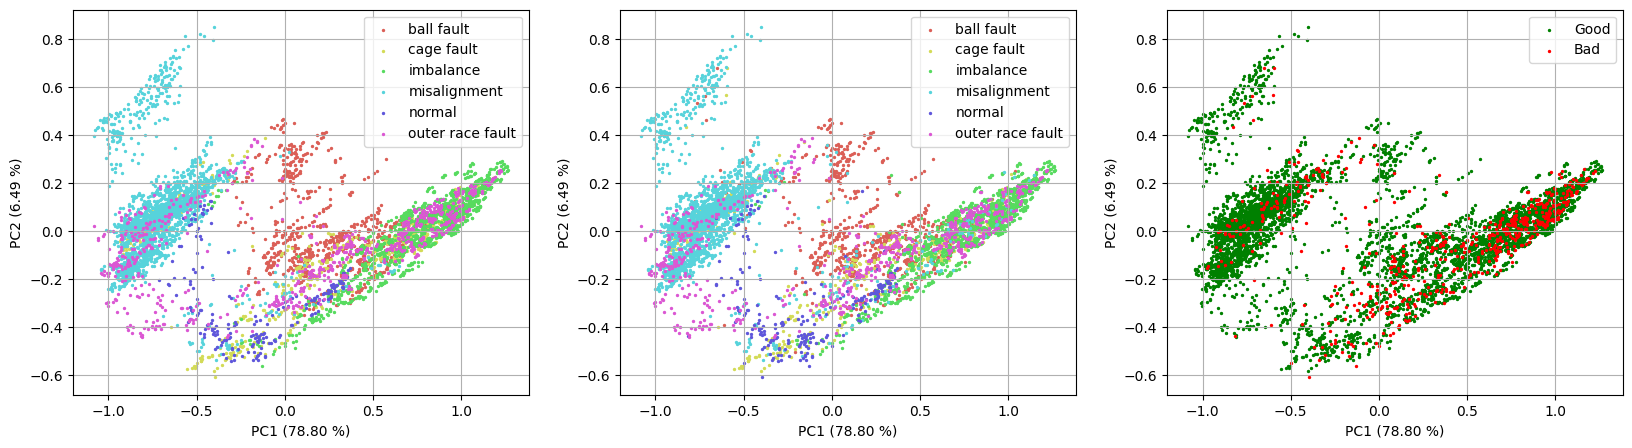
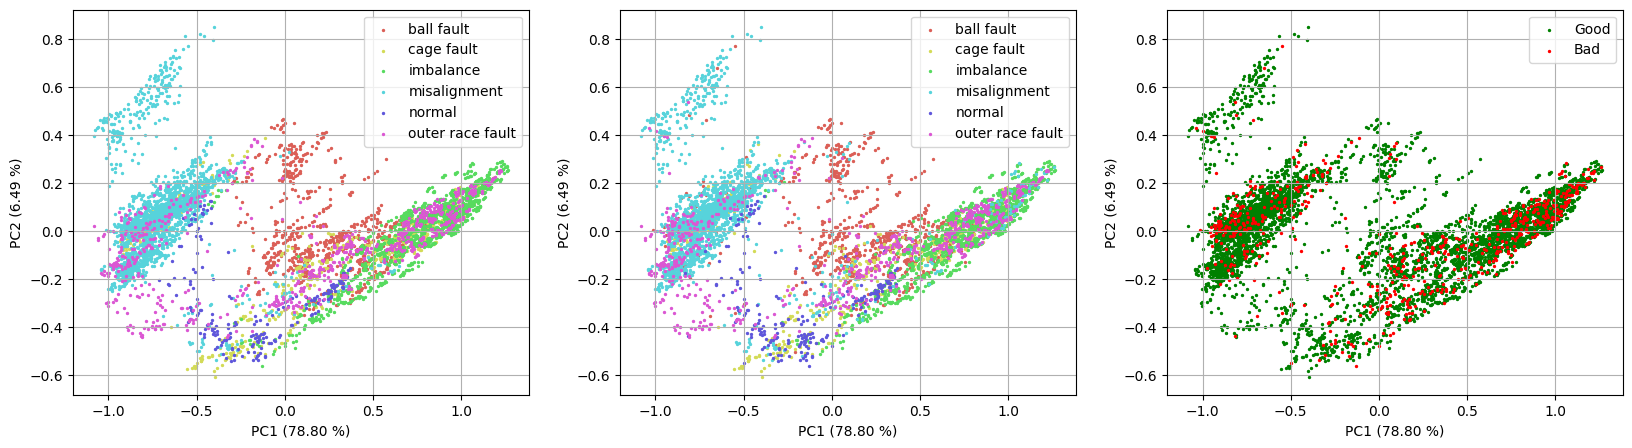
Increamental learing results with kNN

diff --git a/thesis/chapters/03-design.tex b/thesis/chapters/03-design.tex
@@ -257,10 +257,10 @@ The choice of features is very sensitive to experimental conditions. Tendencies 
 
 
 \section{K-nearest neighbor classifier}
-We utilize the k-nearest neighbor algorithm to check machinery diagnostics abilities with reduced feature sets. kNN classifier being a lazy learner means it can be adapted easily from offline to online context. Training labels establish nearest-neighbor decision boundaries for attribute values. Voronoi diagrams can display these regions and explain the model in that way. Batch learning in kNN serves here as a target performance whose attainment is desirable with online learning.
+We utilize the k-nearest neighbor algorithm to check machinery diagnostics abilities with reduced feature sets. kNN classifier being a lazy learner means it can be adapted easily from offline to online context. Training labels are min-max scaled and establish nearest-neighbor decision boundaries for attribute values. Voronoi diagrams can display these regions and explain the model in that way. Batch learning in kNN serves here as a target performance whose attainment is desirable with online learning.
 
 \subsection{Batch models}
-Three types of kNN model experiments run with hold-out validation. 
+Three types of kNN model experiments run with hold-out validation in batch setting. 
 First, the model learns all extracted features, so no feature selection occurs. Then, the brute-force method searches for a combination of three features with the highest training accuracy. In the end, the model performance for three attributes chosen by feature selection techniques is compared to principal components.
 
 \begin{figure}[ht]
@@ -301,7 +301,7 @@ In anomaly prediction, the error of the first degree is 7 times more prevalent t
 \hline
 \multirow{2}{*}{\textbf{\begin{tabular}[c]{@{}l@{}}Bearing\\ position\end{tabular}}} & \multirow{2}{*}{\textbf{\begin{tabular}[c]{@{}l@{}}Target\\ variable\end{tabular}}} & \multirow{2}{*}{\textbf{Observations}}                                             & \multicolumn{3}{l|}{\textbf{Temporal domain}}                                                                                                                                                                                                                                    & \multicolumn{3}{l|}{\textbf{Spectral domain}}                                                                                                                                                                                                                                    \\ \cline{4-9} 
                                                                                      &                                                                                     &                                                                                   & \multicolumn{1}{l|}{\textbf{\begin{tabular}[c]{@{}l@{}}Training\\ accuracy\end{tabular}}} & \multicolumn{1}{l|}{\textbf{\begin{tabular}[c]{@{}l@{}}Testing\\ accuracy\end{tabular}}} & \multicolumn{1}{l|}{\textbf{\begin{tabular}[c]{@{}l@{}}Training\\ F1 score\end{tabular}}} & \multicolumn{1}{l|}{\textbf{\begin{tabular}[c]{@{}l@{}}Training\\ accuracy\end{tabular}}} & \multicolumn{1}{l|}{\textbf{\begin{tabular}[c]{@{}l@{}}Testing\\ accuracy\end{tabular}}} & \multicolumn{1}{l|}{\textbf{\begin{tabular}[c]{@{}l@{}}Training\\ F1 score\end{tabular}}} \\ \hline
-\multirow{2}{*}{A}                                                                   & Fault                                                                               & \begin{tabular}[c]{@{}l@{}}$\sum 2998$\\ 498 pre class\end{tabular}  & \multicolumn{1}{r|}{0.9413}                                                               & \multicolumn{1}{r|}{0.9093}                                                              & 0.91                                                                                      & \multicolumn{1}{r|}{0.9917}                                                               & \multicolumn{1}{r|}{0.9836}                                                              & 0.98                                                                                      \\ \cline{2-9} 
+\multirow{2}{*}{A}                                                                   & Fault                                                                               & \begin{tabular}[c]{@{}l@{}}$\sum 2998$\\ 498 per class\end{tabular}  & \multicolumn{1}{r|}{0.9413}                                                               & \multicolumn{1}{r|}{0.9093}                                                              & 0.91                                                                                      & \multicolumn{1}{r|}{0.9917}                                                               & \multicolumn{1}{r|}{0.9836}                                                              & 0.98                                                                                      \\ \cline{2-9} 
                                                                                      & \begin{tabular}[c]{@{}l@{}}Anomaly\\ (0.9)\end{tabular}                               & \begin{tabular}[c]{@{}l@{}}$\sum 2454$\\ 1227 per class\end{tabular} & \multicolumn{1}{r|}{0.9668}                                                               & \multicolumn{1}{r|}{0.9535}                                                              & 0.96                                                                                      & \multicolumn{1}{r|}{0.9921}                                                               & \multicolumn{1}{r|}{0.9874}                                                              & 0.99                                                                                      \\ \hline
 \multirow{2}{*}{B}                                                                   & Fault                                                                               & \begin{tabular}[c]{@{}l@{}}$\sum 2998$\\ 498 per class\end{tabular}  & \multicolumn{1}{r|}{0.8634}                                                               & \multicolumn{1}{r|}{0.7935}                                                              & 0.79                                                                                      & \multicolumn{1}{r|}{0.9207}                                                               & \multicolumn{1}{r|}{0.8765}                                                              & 0.87                                                                                      \\ \cline{2-9} 
                                                                                      & \begin{tabular}[c]{@{}l@{}}Anomaly \\ (0.9)\end{tabular}                              & \begin{tabular}[c]{@{}l@{}}$\sum 2394$\\ 1197 pre class\end{tabular} & \multicolumn{1}{r|}{0.9148}                                                               & \multicolumn{1}{r|}{0.8668}                                                              & 0.87                                                                                      & \multicolumn{1}{r|}{0.9428}                                                               & \multicolumn{1}{r|}{0.9156}                                                              & 0.92                                                                                      \\ \hline
@@ -418,58 +418,67 @@ In every instance, a subset of spectral features is responsible for better accur
 
 
 \subsection{Online models}
-%TODO
+Online learning imitates hardened conditions for machinery diagnostics that appear in deployment. Delayed provision or omission of actual labels undoubtedly degrades the reliability of the classification. The question is how quickly the accuracy approaches the optimal one from the nearest neighbors trained in batch and what the effect of routine difficulties in the ongoing labeling process is.
 
-% Order of classes, whole feature set, all rpm, placement on bearing A
-	% Severity is rising sequentially, each group is shuffled randomly, validation set is kept away for hold-valiadtion.
-	% (Progressive valuation with 20\% of dataset kept away for additional hold-out validation):
-	
+The kNN models in incremental learning experiments learn on the same base training dataset for bearing position A and with all extracted features as in batch context. In this manner, we can compare the training accuracies in the last sample for both models. kNN is set to 5 nearest neighbors and proximity metric of Euclidian distance. Online learning metrics are evaluated in progressive valuation on a dataset that is left unbalanced.
+
+The \textbf{stream of events is sorted} by rising severity levels (Fig.~\ref{fig:design:online-count-severity-level}) which ensures steady increments in label counts throughout the whole duration of the simulation (Fig.~\ref{fig:design:online-event-order}). This constructed event sequence is a bit unrealistic because all types of faults never begin to appear simultaneously with equal strengths. It is meant to approximate the gradual overall degradation of the machine. 
 
 \begin{figure}[ht]
     \centering
     \begin{subfigure}[b]{0.49\textwidth}
         \includegraphics[width=\textwidth]{assets/design/Online-event-ordering-fault-train.png}
-        \caption{Training set and defect types ``fault'' as predicted variable}
+        \caption{Event ordering of faults}
+        \label{fig:design:online-event-order}
     \end{subfigure}
     \hfill
     \begin{subfigure}[b]{0.49\textwidth}
-        \includegraphics[width=\textwidth]{assets/design/Online-event-ordering-anomaly60-train.png}
-        \caption{Training set and anomaly with severity above 0.6 ``anomaly60'' as predicted variable}
+        \includegraphics[width=\textwidth]{assets/design/Online-severity-levels.png}
+        \caption{Fault severity levels ordering}
+        \label{fig:design:online-count-severity-level}
     \end{subfigure}
     \caption{Label sequencing for progressive evaluation}
 \end{figure}
 
+Major breaking points in the stream are after 1171 observations out of 5751, where all 203 normal conditions are consumed in the training process. Counters of other faults show that model prediction are skewed towards more represented classes of imbalance and misalignement. The uneven evolution of category counts in a stream impacts the development of accuracy in the remaining experiments. The training accuracies of comparable batch models are 94.13\% \emph{(temporal features)} and 99.17\% \emph{(spectral features)}.
+	
+During gradual learning, the correct label is supplied after a fixed period passes after its prediction. This \textbf{sliding window} simulation examines accuracy every 100 iterations. Wait times before revealing the actual class associated with the sample are 1, 50, 100, or 250 steps (Fig.~\ref{ffig:design:online-fault-delay-sliding}). 
 
 
-% Gradual learning with delay - label provided after it has been predicted by the model
-	% The amount to wait before revealing the target associated with each observation to the model.
+\begin{figure}[ht]
+    \centering
+    \begin{subfigure}[b]{\textwidth}
+        \includegraphics[width=\textwidth]{assets/design/pca-scatter-online-fault-temporal.png}
+        \caption{Principal components from temporal domain features}
+    \end{subfigure}
+    \hfill
+    \begin{subfigure}[b]{\textwidth}
+        \includegraphics[width=\textwidth]{assets/design/pca-scatter-online-fault-spectral.png}
+        \caption{Principal components from spectral domain features}
+    \end{subfigure}
+    \caption{Classification labels in incremental learning \emph{(from left)}: true labels, predicted labels, mistakes in predictions.}
+    \label{fig:design:scatter-plot-online}
+\end{figure}
+
+Accuracies after sequentially seeing all samples are 82.92\% \emph{(temporal)} and 89.11\% \emph{(spectral)} when labels are shown instantly. Scatter plots in Figure~\ref{fig:design:scatter-plot-online} visualize mistakes in predictions projected onto two principal components. Labeling delay of 250 observations causes accuracies to drop to 70.51\% \emph{(temporal)} and 78.81\% \emph{(spectral)}. Accuracy better than 50\% is achieved 200 steps sooner in the spectral domain than in the temporal domain.
 	
 \begin{figure}[ht]
     \centering
     \begin{subfigure}[b]{0.49\textwidth}
         \includegraphics[width=\textwidth]{assets/design/gradual-learning-accuracy-delay-temporal-domain-fault.png}
-        \caption{Temporal domain features, predicted variable is fault}
+        \caption{Temporal domain features}
     \end{subfigure}
     \hfill
     \begin{subfigure}[b]{0.49\textwidth}
         \includegraphics[width=\textwidth]{assets/design/gradual-learning-accuracy-delay-spectral-domain-fault.png}
-        \caption{Spectral domain features, predicted variable is fault}
+        \caption{Spectral domain features}
     \end{subfigure}
-    \begin{subfigure}[b]{0.49\textwidth}
-        \includegraphics[width=\textwidth]{assets/design/gradual-learning-accuracy-delay-temporal-domain-anomaly60.png}
-        \caption{Temporal domain features, predicted variable is anomaly above severity 0.6}
-    \end{subfigure}
-    \hfill
-    \begin{subfigure}[b]{0.49\textwidth}
-        \includegraphics[width=\textwidth]{assets/design/gradual-learning-accuracy-delay-spectral-domain-anomaly60.png}
-        \caption{Spectral domain features, predicted variable is anomaly above severity 0.6}
-    \end{subfigure}
-    \caption{Incremental learning on all extracted features with delayed reveal of labels in rolling window}
+    \caption{Incremental learning on all extracted feature with delayed reveal of labels in sliding windows.}
+    \label{fig:design:online-fault-delay-sliding}
 \end{figure}
 	
 	
-
-% Window learning- all labels for fixed previous period are provided at once.
+The \textbf{tumbling window} simulates regular expert visits annotating observations recorded until that moment. Labels for the whole previous window are supplied at once. At the final sample, the accuracies are 83.41\% \emph{(temporal)} and 90.14\% \emph{(spectral)} with immediate feedback, and 77.95\% \emph{(temporal)} and 85.90\% \emph{(spectral)} with window length of 250 samples (Fig.~\ref{fig:design:online-fault-delay-tumbling}). 
 
 \begin{figure}[ht]
     \centering
@@ -482,12 +491,13 @@ In every instance, a subset of spectral features is responsible for better accur
         \includegraphics[width=\textwidth]{assets/design/gradual-learning-delay-spectral-domain-fault.png}
         \caption{Spectral domain features}
     \end{subfigure}
-    \caption{Incremental learning for variable ``fault'' with delayed reveal of labels at regular intervals.}
+    \caption{Incremental learning on all extracted feature with delayed reveal of labels at regular intervals in tumbing windows.}
+    \label{fig:design:online-fault-delay-tumbling}
 \end{figure}
 
+A \textbf{tumbling window} is more accurate according to progressive valuation because the labeling delay decreases towards the window's end. Initial 0\% accuracy is caused by a warming-up period in data collection during the span of the first few windows true labels are unknown. After just a handful of windows in the beginning, accuracy jumps above 60\% and stabilizes after 1000 observation.
 
-% Missing labels - some labels are skipped before another one is anotated
-
+Another common problem in online learning is \textbf{missing annotations} due to the size of the dataset. In the simulation of missing labels, the equal-length gaps are skipped before another observation is annotated. This approach of choosing samples to annotate without considering their representativeness results in severe harm to predictions. 
 
 \begin{figure}[ht]
     \centering
@@ -500,27 +510,12 @@ In every instance, a subset of spectral features is responsible for better accur
         \includegraphics[width=\textwidth]{assets/design/gradual-learning-skip-spectral-domain-fault.png}
         \caption{Spectral domain features}
     \end{subfigure}
-    \caption{Incremental learning with skipping of labels and delay of 10 observations}
+    \caption{Incremental learning with missing true labels and sliding window delay of 10 observations}
+    \label{fig:design:online-label-skip}
 \end{figure}
 
-% Scatter plot of fault classification - min-max scale shifts. From left true labels, predicted labels, mistakes made by model in red  
+Labeling just every \nth{5} sample (25\% of the total dataset) with a sliding window delay of 10 samples reduces accuracy for the model out of temporal features by 8.77\% to 74.07\%, and by 7.33\% for spectral features to accuracy of 82.01\% (Fig.~\ref{fig:design:online-label-skip}). Even if only 1\% of the dataset is annotated (every \nth{100} sample), the model out of spectral features retained an accuracy of 65.17\%. The same cannot be said about the model from temporal features with very poor accuracy of 53.68\%. More missing labels require recording more observations before the equivalent accuracy is reached.
 
-\begin{figure}[ht]
-    \centering
-    \begin{subfigure}[b]{\textwidth}
-        \includegraphics[width=\textwidth]{assets/design/pca-scatter-online-fault-temporal.png}
-        \caption{}
-    \end{subfigure}
-    \hfill
-    \begin{subfigure}[b]{\textwidth}
-        \includegraphics[width=\textwidth]{assets/design/pca-scatter-online-fault-spectral.png}
-        \caption{}
-    \end{subfigure}
-    \caption{PCA 2 components to visualize results and mistakes of online learning on all features}
-\end{figure}
-
-\clearpage
-\newpage
 
 \section{Vibration measurement plan}
 

diff --git a/notebooks/vibrodiagnostics/discovery.py b/notebooks/vibrodiagnostics/discovery.py
@@ -57,7 +57,7 @@ def time_features_calc(df: pd.DataFrame, col: str) -> List[Tuple[str, pd.DataFra
         ('rms', [ft.rms(x)]),
         ('pp', [ft.pk_pk_distance(x)]),
         ('crest', [np.max(np.absolute(x)) / ft.rms(x)]),
-        ('margin', [np.max(np.absolute(x)) / (np.mean(np.sqrt(np.absolute(x))) ** 2)]),
+        ('margin', [np.max(nplot_label_occurencesp.absolute(x)) / (np.mean(np.sqrt(np.absolute(x))) ** 2)]),
         ('impulse', [np.max(np.absolute(x)) / np.mean(np.absolute(x))]),
         ('shape', [ft.rms(x) / np.mean(np.absolute(x))]),
         ('max', [ft.calc_max(x)])
@@ -127,7 +127,8 @@ def plot_label_occurences(y):
         observations.append(sample)
 
     class_occurences = pd.DataFrame.from_records(observations).cumsum()
-    class_occurences.plot(grid=True, figsize=(10, 3), xlabel='Observations', ylabel='Label occurences')
+    ax = class_occurences.plot(grid=True, figsize=(10, 5), xlabel='Observations', ylabel='Label occurences')
+    return ax, class_occurences
 
 
 def features_list():

diff --git a/thesis/chapters/02-analysis-B-features.tex b/thesis/chapters/02-analysis-B-features.tex
@@ -314,7 +314,6 @@ Vibrations are measured with an accelerometer in the form of 3D vectors where ea
 \myequations{Feature euclidian norm}
 \begin{ceqn}\begin{align}
 \widetilde{f} = \sqrt{f_x^2 + f_y^2 + f_z^2}
-\label{equ:min-max-scaler}
 \end{align}\end{ceqn}
 
 Feature normalization most often takes two forms. \textbf{Min-max scaling} changes original range of values into interval $[0, 1]$ (Equation~\ref{equ:min-max-scaler}). \textbf{Standardization} (Equation~\ref{equ:standardization-scaler}) constrains the mean of the variable to 0 with a variance of 1~\cite{zheng_feature_2018}.
